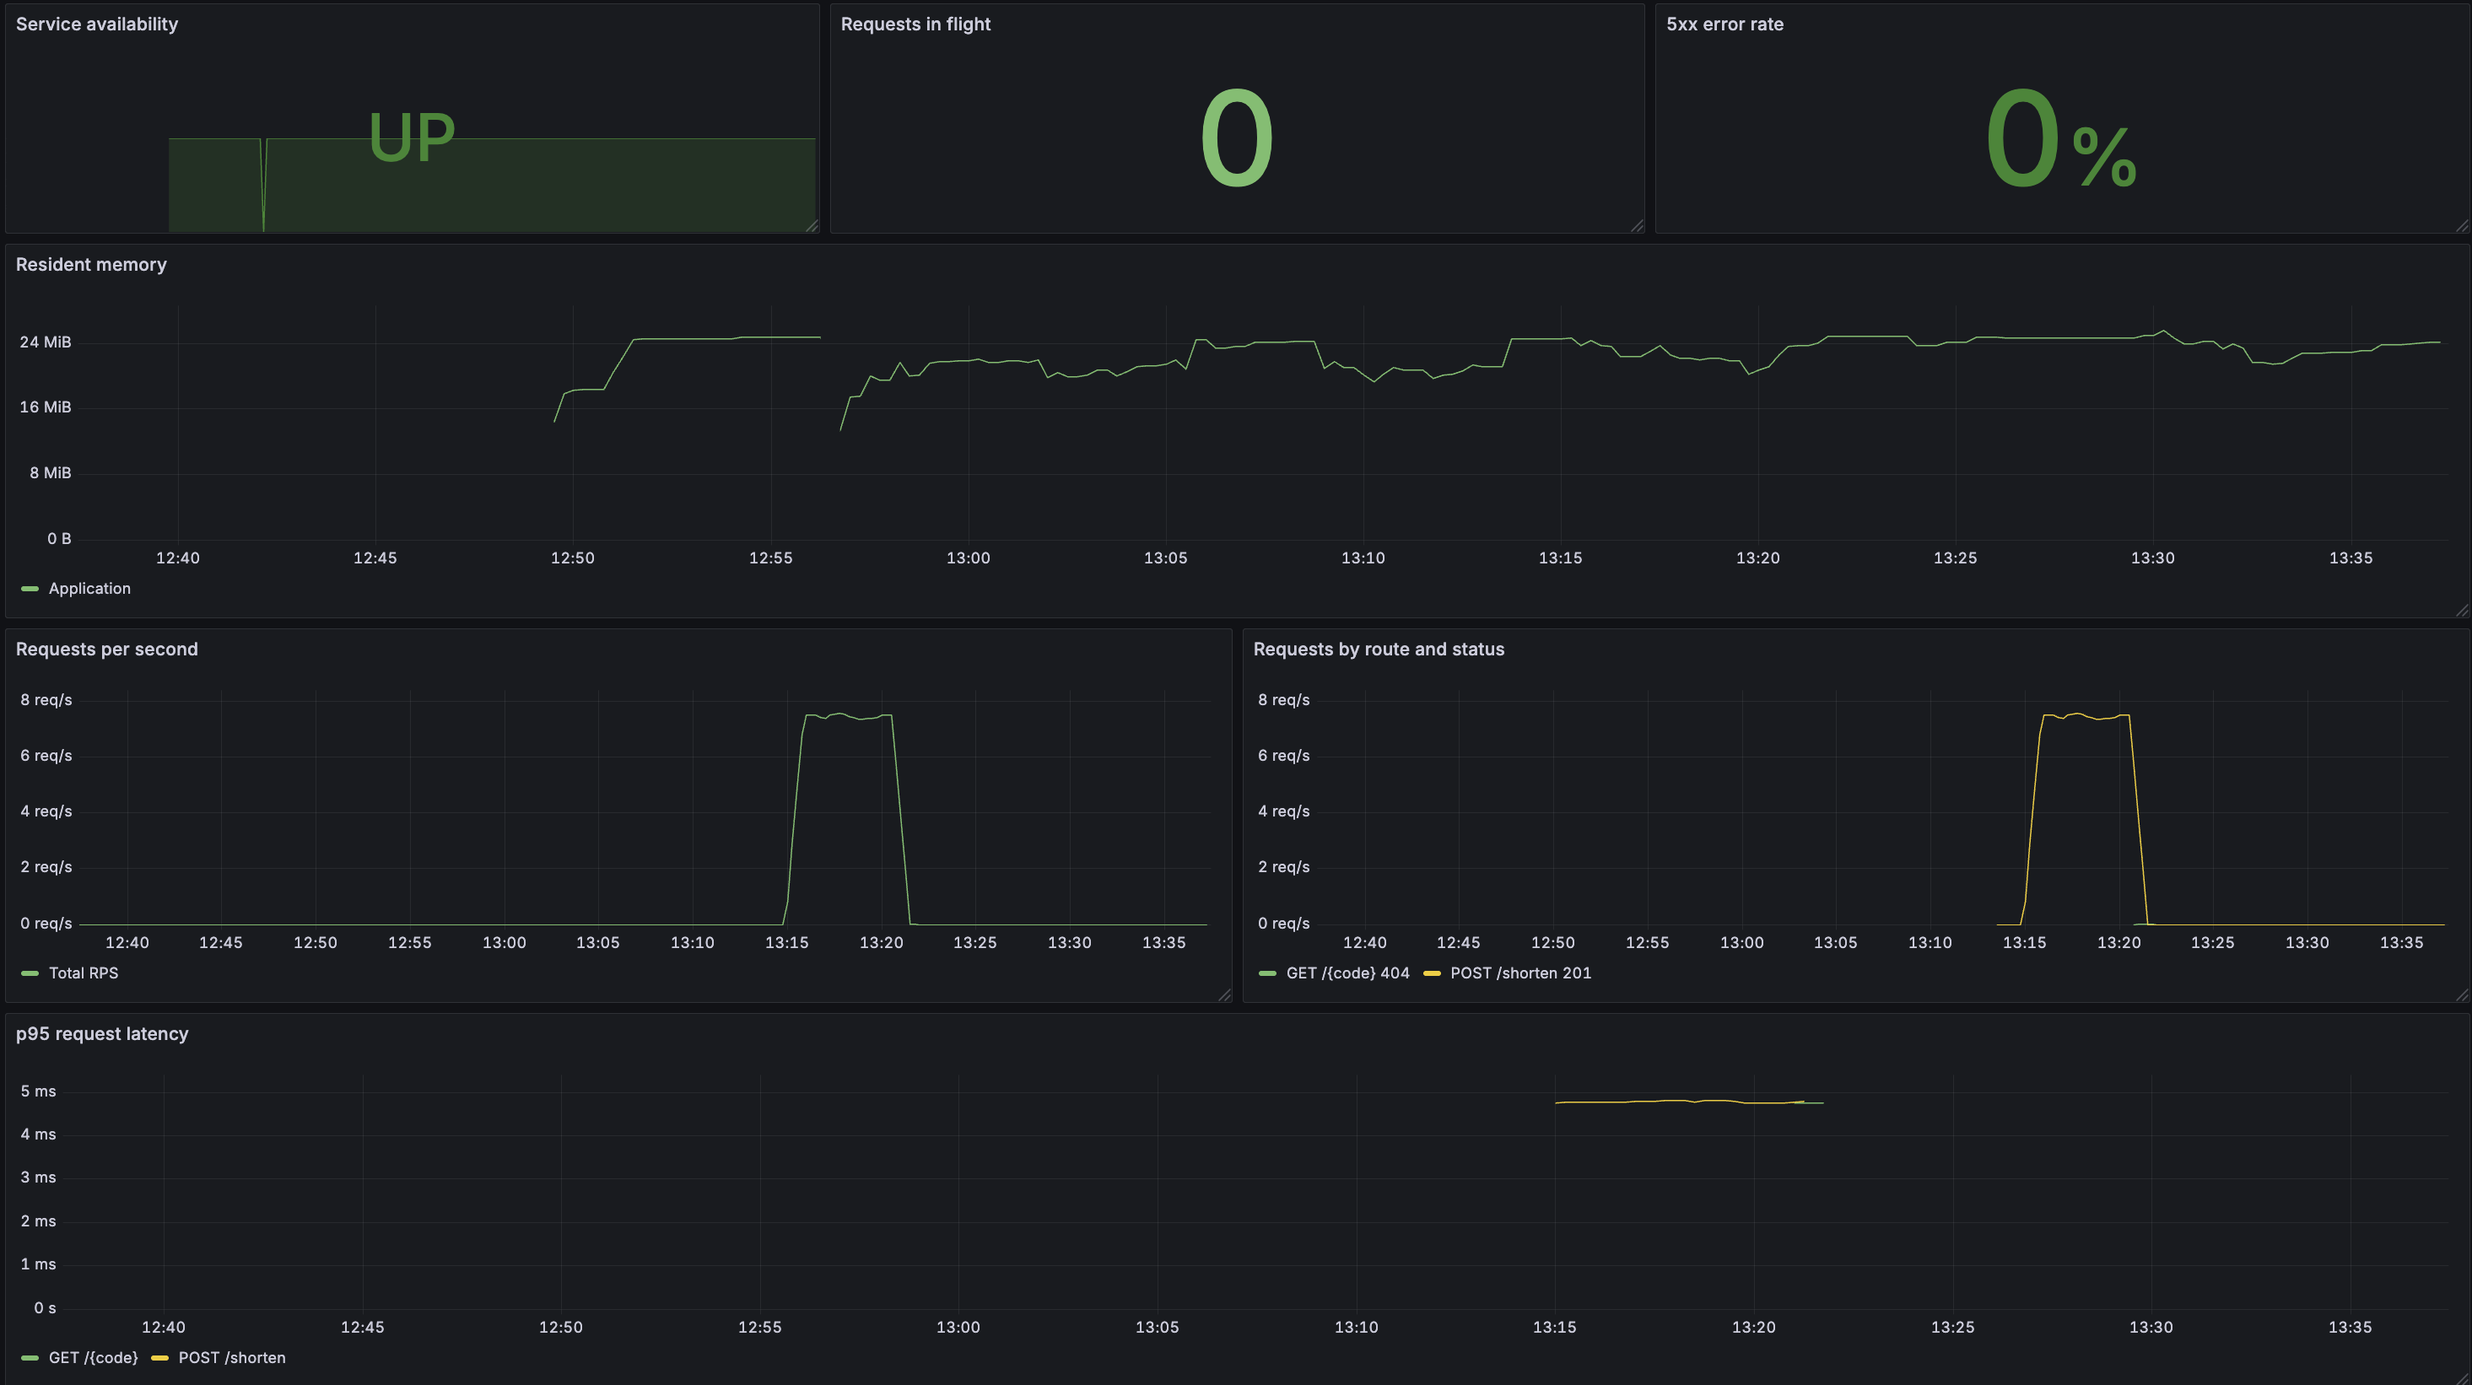
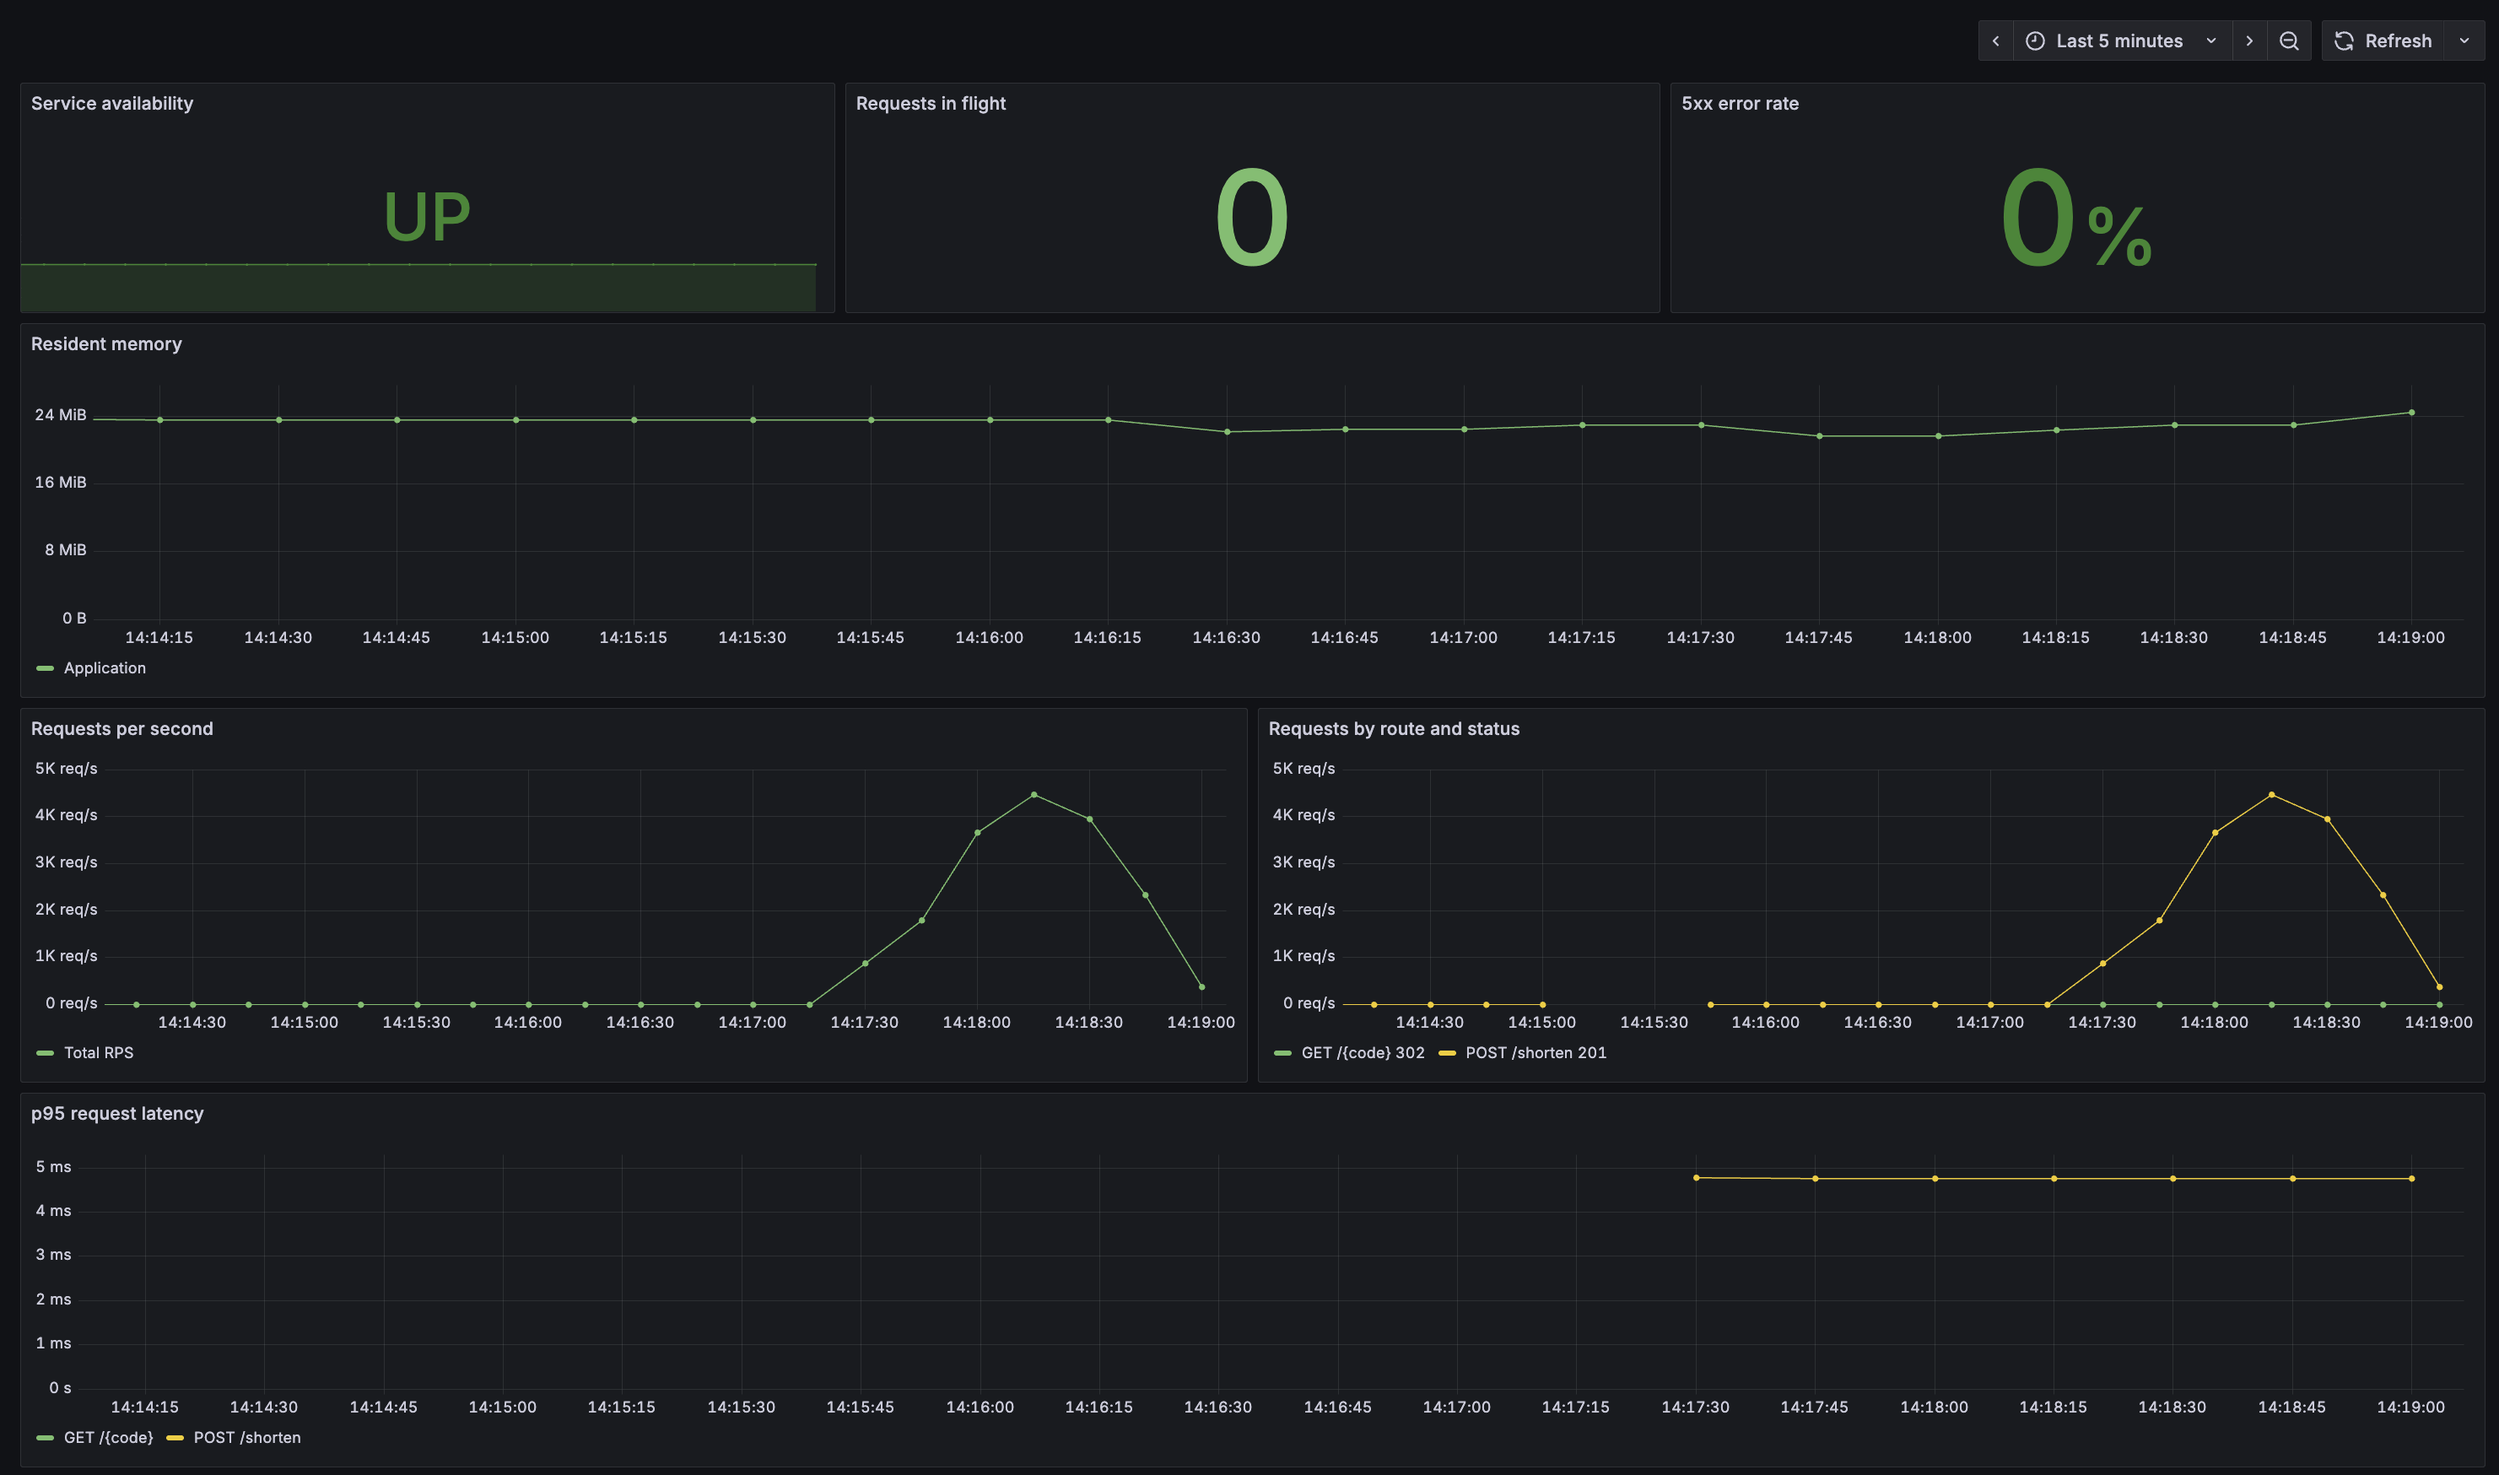
docs: add load test results

diff --git a/README.md b/README.md
@@ -74,9 +74,6 @@ Application /metrics <-scrape- Prometheus <-query- Grafana
 
 Зависимости направлены внутрь: бизнес-логика знает только интерфейс `Repository`, поэтому HTTP и PostgreSQL можно тестировать и заменять независимо.
 
-### Дашборд Grafana
-![Дашборд Grafana](docs/dashboard.png)
-
 ## Выбор технологий
 
 | Технология | Причина выбора |
@@ -100,6 +97,12 @@ Application /metrics <-scrape- Prometheus <-query- Grafana
 | Race detector и `go vet` | Ошибок не обнаружено |
 | `golangci-lint v2.12.2` | `0 issues` |
 | Docker Compose | Конфигурация валидна; `/readyz` отвечает `200`, дашборд Grafana загружается автоматически |
+
+### Нагрузочный тест
+
+Локальный запуск в Docker Desktop: ApacheBench, `POST /shorten`, 20 параллельных клиентов, 30 секунд. Выполнено 217 305 запросов со средней скоростью 7 243 req/s, p95 – 5 ms, failed requests и 5xx – 0; память приложения не превысила 26 MiB.
+
+![Метрики приложения под нагрузкой](docs/dashboard.png)
 
 Основная локальная проверка:
 
